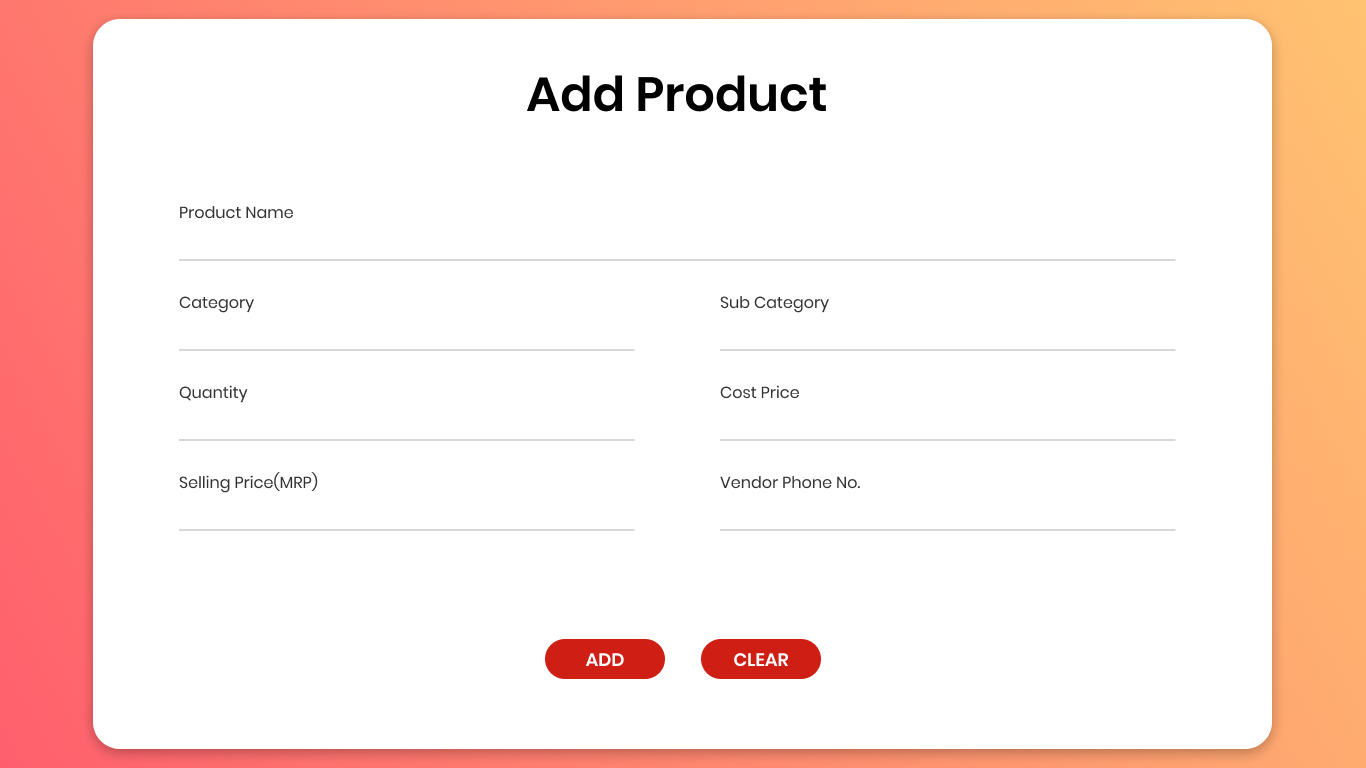
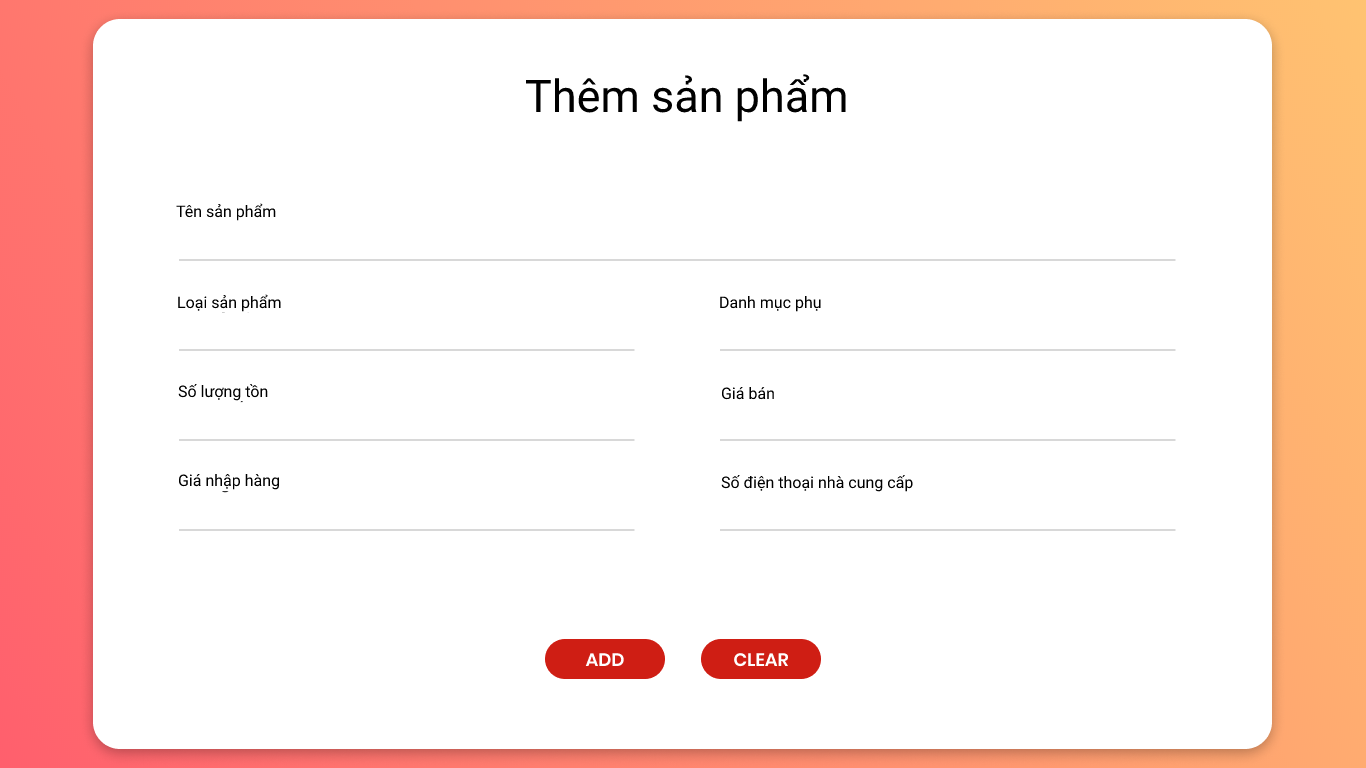
cập nhật ảnh, update database.db, fix bug

diff --git a/Admin/Inventory.py b/Admin/Inventory.py
@@ -43,9 +43,13 @@ def create_emp():
                     );''')
 
     # Thêm dữ liệu vào bảng
+    conn.execute(
+        "INSERT INTO raw_inventory (product_id,product_name, product_cat, product_subcat, stock, mrp, cost_price, vendor_phn) VALUES ('SP001', 'John Doe', '123456789', 'Hcm', '079202021234', '12345', '200000','1234567890')")
 
     conn.commit()
     conn.close()
+
+
 
 def inventory():
     global page3
@@ -101,7 +105,7 @@ class Inventory:
         self.button1.configure(background="#CF1E14")
         self.button1.configure(font="-family {Poppins SemiBold} -size 10")
         self.button1.configure(borderwidth="0")
-        self.button1.configure(text="""Search""")
+        self.button1.configure(text="""Tìm""")
         self.button1.configure(command=self.search_product)
 
         self.button2 = Button(root)
@@ -127,7 +131,7 @@ class Inventory:
         self.button3.configure(background="#CF1E14")
         self.button3.configure(font="-family {Poppins SemiBold} -size 12")
         self.button3.configure(borderwidth="0")
-        self.button3.configure(text="""ADD PRODUCT""")
+        self.button3.configure(text="""Thêm sản phẩm""")
         self.button3.configure(command=self.add_product)
 
         self.button4 = Button(root)
@@ -140,7 +144,7 @@ class Inventory:
         self.button4.configure(background="#CF1E14")
         self.button4.configure(font="-family {Poppins SemiBold} -size 12")
         self.button4.configure(borderwidth="0")
-        self.button4.configure(text="""UPDATE PRODUCT""")
+        self.button4.configure(text="""Cập nhật sản phẩm""")
         self.button4.configure(command=self.update_product)
 
         self.button5 = Button(root)
@@ -153,7 +157,7 @@ class Inventory:
         self.button5.configure(background="#CF1E14")
         self.button5.configure(font="-family {Poppins SemiBold} -size 12")
         self.button5.configure(borderwidth="0")
-        self.button5.configure(text="""DELETE PRODUCT""")
+        self.button5.configure(text="""Xóa sản phẩm""")
         self.button5.configure(command=self.delete_product)
 
         self.button6 = Button(root)
@@ -166,7 +170,7 @@ class Inventory:
         self.button6.configure(background="#CF1E14")
         self.button6.configure(font="-family {Poppins SemiBold} -size 12")
         self.button6.configure(borderwidth="0")
-        self.button6.configure(text="""EXIT""")
+        self.button6.configure(text="""Thoát""")
         self.button6.configure(command=self.Exit)
 
         self.scrollbarx = Scrollbar(root, orient=HORIZONTAL)
@@ -188,25 +192,25 @@ class Inventory:
 
         self.tree.configure(
             columns=(
-                "Product ID",
-                "Name",
-                "Category",
-                "Sub-Category",
-                "In Stock",
-                "MRP",
-                "Cost Price",
-                "Vendor No.",
+                "Mã sản phẩm",
+                "Tên",
+                "Loại sản phẩm",
+                "Danh mục",
+                "Số lượng",
+                "Giá nhập",
+                "Giá bán",
+                "SĐT nhà cung cấp",
             )
         )
 
-        self.tree.heading("Product ID", text="Product ID", anchor=W)
-        self.tree.heading("Name", text="Name", anchor=W)
-        self.tree.heading("Category", text="Category", anchor=W)
-        self.tree.heading("Sub-Category", text="Sub-Category", anchor=W)
-        self.tree.heading("In Stock", text="In Stock", anchor=W)
-        self.tree.heading("MRP", text="MRP", anchor=W)
-        self.tree.heading("Cost Price", text="Cost Price", anchor=W)
-        self.tree.heading("Vendor No.", text="Vendor No.", anchor=W)
+        self.tree.heading("Mã sản phẩm", text="Mã sản phẩm", anchor=W)
+        self.tree.heading("Tên", text="Tên", anchor=W)
+        self.tree.heading("Loại sản phẩm", text="Loại sản phẩm", anchor=W)
+        self.tree.heading("Danh mục", text="Danh mục", anchor=W)
+        self.tree.heading("Số lượng", text="Số lượng", anchor=W)
+        self.tree.heading("Giá nhập", text="Giá nhập", anchor=W)
+        self.tree.heading("Giá bán", text="Giá bán", anchor=W)
+        self.tree.heading("SĐT nhà cung cấp", text="SĐT nhà cung cấp", anchor=W)
 
         self.tree.column("#0", stretch=NO, minwidth=0, width=0)
         self.tree.column("#1", stretch=NO, minwidth=0, width=80)
@@ -225,6 +229,7 @@ class Inventory:
         global page4
         p_add = Toplevel()
         page4 = add_product(p_add)
+        p_add.protocol("WM_DELETE_WINDOW", self.ex)
         p_add.mainloop()
 
     def delete_product(self):
@@ -232,7 +237,7 @@ class Inventory:
         to_delete = []
 
         if len(self.sel) != 0:
-            sure = messagebox.askyesno("Confirm", "Are you sure you want to delete selected products?", parent=root)
+            sure = messagebox.askyesno("Xác nhận", "Bạn có chắc là muốn xóa sản phẩm đã chọn?", parent=root)
             if sure == True:
                 for i in self.sel:
                     for j in self.tree.item(i)["values"]:
@@ -280,7 +285,7 @@ class Inventory:
                 val.append(j)
 
         try:
-            to_search = int(self.entry1.get())
+            to_search = self.entry1.get()
         except ValueError:
             messagebox.showerror("Oops!!", "Mã sản phẩm không hợp lệ.", parent=root)
         else:
@@ -303,8 +308,14 @@ class Inventory:
             if i not in self.sel:
                 self.sel.append(i)
 
-    def ex2(self):
+
+    def ex(self):
         p_add.destroy()
+        self.tree.delete(*self.tree.get_children())
+        self.DisplayData()
+
+    def ex2(self):
+        p_update.destroy()
         self.tree.delete(*self.tree.get_children())
         self.DisplayData()
 
@@ -334,7 +345,7 @@ class Inventory:
         else:
             messagebox.showerror("Lỗi", "Chỉ có thể chỉnh sửa một sản phẩm một lúc !.", parent=root)
 
-        p_update.mainloop()
+
 
 
 class add_product:
@@ -403,7 +414,7 @@ class add_product:
         self.button1.configure(background="#CF1E14")
         self.button1.configure(font="-family {Poppins SemiBold} -size 14")
         self.button1.configure(borderwidth="0")
-        self.button1.configure(text="""ADD""")
+        self.button1.configure(text="""Thêm""")
         self.button1.configure(command=self.add)
 
         self.button2 = Button(p_add)
@@ -416,7 +427,7 @@ class add_product:
         self.button2.configure(background="#CF1E14")
         self.button2.configure(font="-family {Poppins SemiBold} -size 14")
         self.button2.configure(borderwidth="0")
-        self.button2.configure(text="""CLEAR""")
+        self.button2.configure(text="""Xóa""")
         self.button2.configure(command=self.clearr)
 
     def add(self):
@@ -435,15 +446,15 @@ class add_product:
                     if pqty:
                         if pcp:
                             try:
-                                float(pcp)
+                                int(pcp)
                             except ValueError:
                                 messagebox.showerror("Lỗi!", "Giá bán không hợp lệ.", parent=p_add)
                             else:
                                 if pmrp:
                                     try:
-                                        float(pmrp)
+                                        int(pmrp)
                                     except ValueError:
-                                        messagebox.showerror("Lỗi!", "MRP không hợp lệ.", parent=p_add)
+                                        messagebox.showerror("Lỗi!", "giá nhập hàng không hợp lệ.", parent=p_add)
                                     else:
                                         if valid_phone(pvendor):
                                             with sqlite3.connect("./Database/database.db") as db:
@@ -452,19 +463,17 @@ class add_product:
                                                 "INSERT INTO raw_inventory(product_id,product_name, product_cat, product_subcat, stock, mrp, cost_price, vendor_phn) VALUES(?,?,?,?,?,?,?,?)"
                                             )
                                             cur.execute(insert,
-                                                        [pid,pname, pcat, psubcat, int(pqty), float(pmrp), float(pcp),
+                                                        [pid,pname, pcat, psubcat, int(pqty), int(pmrp), int(pcp),
                                                          pvendor])
                                             db.commit()
-                                            messagebox.showinfo("Thành công!!", "Sản phẩm đã được thêm vào giỏ hàng.",
+                                            messagebox.showinfo("Thành công!!", "Sản phẩm đã được thêm vào cơ sở dữ liệu.",
                                                                 parent=p_add)
-                                            p_add.destroy()
-                                            page3.tree.delete(*page3.tree.get_children())
-                                            page3.DisplayData()
-                                            p_add.destroy()
+                                            self.clearr()
+
                                         else:
                                             messagebox.showerror("Lỗi!", "Số điện thoại không hợp lệ.", parent=p_add)
                                 else:
-                                    messagebox.showerror("Lỗi!", "Vui lòng nhập MRP.", parent=p_add)
+                                    messagebox.showerror("Lỗi!", "Vui lòng nhập giá nhập hàng.", parent=p_add)
                         else:
                             messagebox.showerror("Lôi!", "Vui lòng nhập giá bán sản phẩm", parent=p_add)
                     else:
@@ -558,7 +567,7 @@ class Update_Product:
         self.button1.configure(background="#CF1E14")
         self.button1.configure(font="-family {Poppins SemiBold} -size 14")
         self.button1.configure(borderwidth="0")
-        self.button1.configure(text="""UPDATE""")
+        self.button1.configure(text="""Chỉnh sửa""")
         self.button1.configure(command=self.update)
 
         self.button2 = Button(p_update)
@@ -571,7 +580,7 @@ class Update_Product:
         self.button2.configure(background="#CF1E14")
         self.button2.configure(font="-family {Poppins SemiBold} -size 14")
         self.button2.configure(borderwidth="0")
-        self.button2.configure(text="""CLEAR""")
+        self.button2.configure(text="""Xóa""")
         self.button2.configure(command=self.clearr)
 
     def update(self):
@@ -597,7 +606,7 @@ class Update_Product:
                                     try:
                                         float(pmrp)
                                     except ValueError:
-                                        messagebox.showerror("Lỗi", "MRP không hợp lệ.", parent=p_update)
+                                        messagebox.showerror("Lỗi", "giá nhập hàng không hợp lệ.", parent=p_update)
                                     else:
                                         if valid_phone(pvendor):
                                             product_id = valll[0]
@@ -621,7 +630,7 @@ class Update_Product:
                                         else:
                                             messagebox.showerror("Lỗi!", "Số điện thoại không hợp lệ.", parent=p_update)
                                 else:
-                                    messagebox.showerror("Lỗi!", "Vui lòng nhập MRP.", parent=p_update)
+                                    messagebox.showerror("Lỗi!", "Vui lòng nhập giá nhập hàng.", parent=p_update)
                         else:
                             messagebox.showerror("Lỗi!", "Vui lòng nhập giá bán sản phẩm.", parent=p_update)
                     else:

diff --git a/Employee/Bill.py b/Employee/Bill.py
@@ -28,7 +28,7 @@ cust_search_bill = StringVar()
 bill_date = StringVar()
 
 
-with sqlite3.connect("./Database/store.db") as db:
+with sqlite3.connect("./Database/database.db") as db:
     cur = db.cursor()
 
 def random_bill_number(stringLength):
@@ -348,15 +348,15 @@ class bill_window:
             product_name = self.combo3.get()
             if(product_name!=""):
                 product_qty = self.entry4.get()
-                find_mrp = "SELECT mrp, stock FROM raw_inventory WHERE product_name = ?"
+                find_mrp = "SELECT cost_price, stock FROM raw_inventory WHERE product_name = ?"
                 cur.execute(find_mrp, [product_name])
                 results = cur.fetchall()
-                stock = results[0][1]
-                mrp = results[0][0]
+                stock = int(results[0][1])
+                cost_price = int(results[0][0])
                 if product_qty.isdigit()==True:
                     if (stock-int(product_qty))>=0:
-                        sp = mrp*int(product_qty)
-                        item = Item(product_name, mrp, int(product_qty))
+                        sp = cost_price*int(product_qty)
+                        item = Item(product_name, cost_price, int(product_qty))
                         self.cart.add_item(item)
                         self.Scrolledtext1.configure(state="normal")
                         bill_text = "{}\t\t\t\t\t\t{}\t\t\t\t\t   {}\n".format(product_name, product_qty, sp)
@@ -574,7 +574,7 @@ class bill_window:
 
                     
 
-                    with sqlite3.connect("./Database/store.db") as db:
+                    with sqlite3.connect("./Database/database.db") as db:
                         cur = db.cursor()
                     insert = (
                         "INSERT INTO bill(bill_no, date, customer_name, customer_no, bill_details) VALUES(?,?,?,?,?)"

diff --git a/Admin/Invoices.py b/Admin/Invoices.py
@@ -21,9 +21,29 @@ y = (screen_height - height) // 2
 root.geometry('{}x{}+{}+{}'.format(width, height, x, y))
 root.title("Invoices")
 
-with sqlite3.connect("./Database/store.db") as db:
+with sqlite3.connect("./Database/database.db") as db:
     cur = db.cursor()
 
+
+def create_ctm():
+    conn = sqlite3.connect('./Database/database.db')
+
+    # Tạo bảng trong cơ sở dữ liệu
+    conn.execute('''CREATE TABLE bill
+                    (bill_no TEXT PRIMARY KEY NOT NULL,
+                    date TEXT NOT NULL,
+                    customer_name TEXT NULL,
+                    customer_no TEXT NULL,
+                    bill_details TEXT NULL          
+                    );''')
+
+    # Thêm dữ liệu vào bảng
+    conn.execute(
+        "INSERT INTO bill(bill_no, date, customer_name, customer_no, bill_details) VALUES('BB000001','1/1/2023','Quang','CTM001','Test bill')")
+    conn.commit()
+    conn.close()
+
+create_ctm()
 def invoices():
     global invoice
     invoice = Toplevel()
